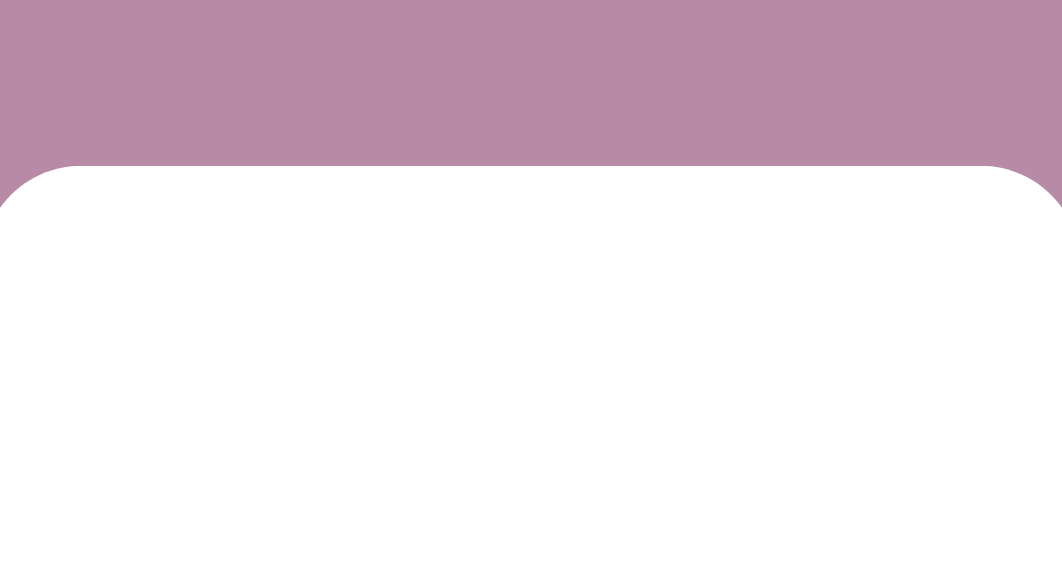
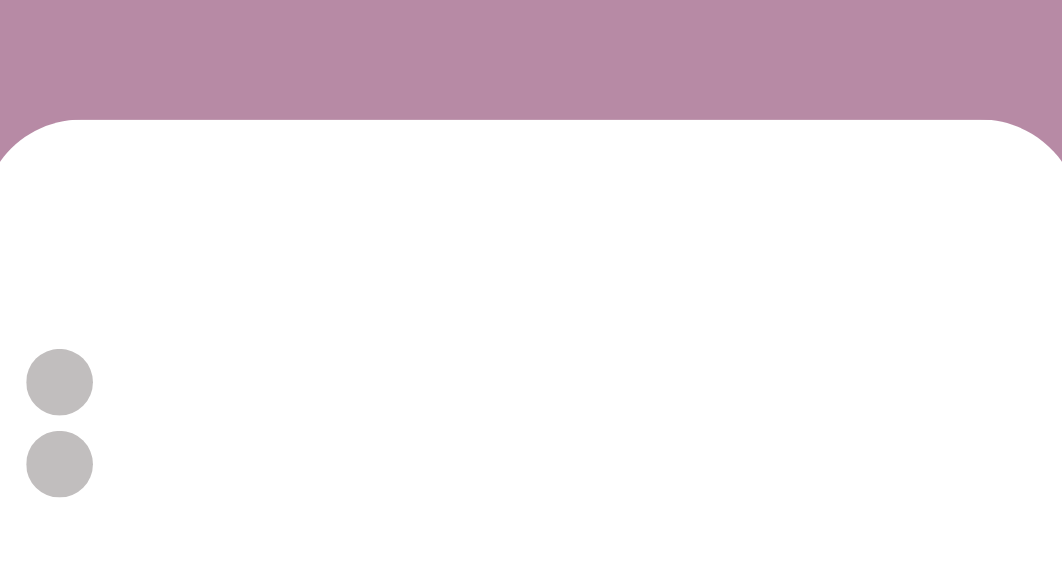
Edit admin form dan background form lainnya

Changed region(s): [[0.0, 0.2073, 1.0, 0.3554], [0.0, 0.5923, 0.0932, 0.8885]]

diff --git a/src/CekKalori.java b/src/CekKalori.java
@@ -55,73 +55,74 @@ public class CekKalori extends javax.swing.JFrame {
 
         jLabel2.setBackground(new java.awt.Color(0, 0, 0));
         jLabel2.setFont(new java.awt.Font("SansSerif", 1, 48)); // NOI18N
+        jLabel2.setForeground(new java.awt.Color(255, 255, 255));
         jLabel2.setText("Cek Kebutuhan Kalori");
-        getContentPane().add(jLabel2, new org.netbeans.lib.awtextra.AbsoluteConstraints(270, 50, -1, -1));
+        getContentPane().add(jLabel2, new org.netbeans.lib.awtextra.AbsoluteConstraints(270, 30, -1, -1));
 
         lblUsia.setBackground(new java.awt.Color(0, 0, 0));
         lblUsia.setFont(new java.awt.Font("SansSerif", 1, 24)); // NOI18N
         lblUsia.setText("Usia");
-        getContentPane().add(lblUsia, new org.netbeans.lib.awtextra.AbsoluteConstraints(240, 180, -1, -1));
+        getContentPane().add(lblUsia, new org.netbeans.lib.awtextra.AbsoluteConstraints(240, 140, -1, -1));
 
         txtUsia.setBackground(new java.awt.Color(255, 204, 255));
         txtUsia.setFont(new java.awt.Font("SansSerif", 1, 20)); // NOI18N
-        getContentPane().add(txtUsia, new org.netbeans.lib.awtextra.AbsoluteConstraints(170, 220, 190, 60));
+        getContentPane().add(txtUsia, new org.netbeans.lib.awtextra.AbsoluteConstraints(170, 180, 190, 60));
 
         lblKelamin.setBackground(new java.awt.Color(0, 0, 0));
         lblKelamin.setFont(new java.awt.Font("SansSerif", 1, 24)); // NOI18N
         lblKelamin.setText("Jenis Kelamin");
-        getContentPane().add(lblKelamin, new org.netbeans.lib.awtextra.AbsoluteConstraints(480, 180, -1, -1));
+        getContentPane().add(lblKelamin, new org.netbeans.lib.awtextra.AbsoluteConstraints(470, 140, -1, -1));
 
         lblTinggi.setBackground(new java.awt.Color(0, 0, 0));
         lblTinggi.setFont(new java.awt.Font("SansSerif", 1, 22)); // NOI18N
         lblTinggi.setText("Tinggi Badan (Cm)");
-        getContentPane().add(lblTinggi, new org.netbeans.lib.awtextra.AbsoluteConstraints(160, 310, -1, -1));
+        getContentPane().add(lblTinggi, new org.netbeans.lib.awtextra.AbsoluteConstraints(160, 270, -1, -1));
 
         lblBerat.setFont(new java.awt.Font("SansSerif", 1, 22)); // NOI18N
         lblBerat.setText("Berat Badan (Kg)");
-        getContentPane().add(lblBerat, new org.netbeans.lib.awtextra.AbsoluteConstraints(470, 310, -1, -1));
+        getContentPane().add(lblBerat, new org.netbeans.lib.awtextra.AbsoluteConstraints(460, 270, -1, -1));
 
         comKelamin.setBackground(new java.awt.Color(255, 204, 255));
         comKelamin.setFont(new java.awt.Font("SansSerif", 1, 20)); // NOI18N
         comKelamin.setModel(new javax.swing.DefaultComboBoxModel<>(new String[] { "Wanita", "Laki-laki" }));
-        getContentPane().add(comKelamin, new org.netbeans.lib.awtextra.AbsoluteConstraints(470, 220, 180, 60));
+        getContentPane().add(comKelamin, new org.netbeans.lib.awtextra.AbsoluteConstraints(460, 180, 180, 60));
 
         lblAktivitas.setBackground(new java.awt.Color(0, 0, 0));
         lblAktivitas.setFont(new java.awt.Font("SansSerif", 1, 22)); // NOI18N
         lblAktivitas.setText("Aktivitas");
-        getContentPane().add(lblAktivitas, new org.netbeans.lib.awtextra.AbsoluteConstraints(780, 180, -1, -1));
+        getContentPane().add(lblAktivitas, new org.netbeans.lib.awtextra.AbsoluteConstraints(760, 140, -1, -1));
 
         comAktivitas.setBackground(new java.awt.Color(255, 204, 255));
         comAktivitas.setFont(new java.awt.Font("SansSerif", 1, 22)); // NOI18N
         comAktivitas.setModel(new javax.swing.DefaultComboBoxModel<>(new String[] { "Ringan", "Sedang", "Berat", " " }));
-        getContentPane().add(comAktivitas, new org.netbeans.lib.awtextra.AbsoluteConstraints(750, 220, 160, 60));
+        getContentPane().add(comAktivitas, new org.netbeans.lib.awtextra.AbsoluteConstraints(730, 180, 160, 60));
 
         btnReset.setBackground(new java.awt.Color(255, 0, 0));
         btnReset.setFont(new java.awt.Font("SansSerif", 1, 18)); // NOI18N
         btnReset.setText("Reset");
         btnReset.addActionListener(this::btnResetActionPerformed);
-        getContentPane().add(btnReset, new org.netbeans.lib.awtextra.AbsoluteConstraints(750, 380, 180, 40));
+        getContentPane().add(btnReset, new org.netbeans.lib.awtextra.AbsoluteConstraints(720, 330, 180, 40));
 
         btnCek.setBackground(new java.awt.Color(102, 255, 102));
         btnCek.setFont(new java.awt.Font("SansSerif", 1, 18)); // NOI18N
         btnCek.setText("Cek Sekarang");
         btnCek.addActionListener(this::btnCekActionPerformed);
-        getContentPane().add(btnCek, new org.netbeans.lib.awtextra.AbsoluteConstraints(750, 320, 180, 40));
+        getContentPane().add(btnCek, new org.netbeans.lib.awtextra.AbsoluteConstraints(720, 270, 180, 40));
 
         txtTinggi.setBackground(new java.awt.Color(255, 204, 255));
         txtTinggi.setFont(new java.awt.Font("SansSerif", 1, 20)); // NOI18N
         txtTinggi.addActionListener(this::txtTinggiActionPerformed);
-        getContentPane().add(txtTinggi, new org.netbeans.lib.awtextra.AbsoluteConstraints(170, 350, 190, 60));
+        getContentPane().add(txtTinggi, new org.netbeans.lib.awtextra.AbsoluteConstraints(170, 310, 190, 60));
 
         txtBerat.setBackground(new java.awt.Color(255, 204, 255));
         txtBerat.setFont(new java.awt.Font("SansSerif", 1, 20)); // NOI18N
-        getContentPane().add(txtBerat, new org.netbeans.lib.awtextra.AbsoluteConstraints(470, 350, 180, 60));
+        getContentPane().add(txtBerat, new org.netbeans.lib.awtextra.AbsoluteConstraints(460, 310, 180, 60));
 
         lblHasil.setBackground(new java.awt.Color(204, 255, 204));
         lblHasil.setOpaque(true);
-        getContentPane().add(lblHasil, new org.netbeans.lib.awtextra.AbsoluteConstraints(240, 440, 580, 90));
+        getContentPane().add(lblHasil, new org.netbeans.lib.awtextra.AbsoluteConstraints(170, 400, 730, 120));
 
-        jLabel1.setIcon(new javax.swing.ImageIcon(getClass().getResource("/background/bgKalori(1).png"))); // NOI18N
+        jLabel1.setIcon(new javax.swing.ImageIcon(getClass().getResource("/background/bgKalori.png"))); // NOI18N
         getContentPane().add(jLabel1, new org.netbeans.lib.awtextra.AbsoluteConstraints(-10, 0, 1060, 570));
 
         pack();

diff --git a/src/CekAir.java b/src/CekAir.java
@@ -49,49 +49,49 @@ public class CekAir extends javax.swing.JFrame {
 
         lblBerat.setFont(new java.awt.Font("SansSerif", 1, 24)); // NOI18N
         lblBerat.setText("Berat Badan (Kg)");
-        getContentPane().add(lblBerat, new org.netbeans.lib.awtextra.AbsoluteConstraints(160, 220, 200, 30));
+        getContentPane().add(lblBerat, new org.netbeans.lib.awtextra.AbsoluteConstraints(170, 190, 200, 30));
 
         txtBerat.setBackground(new java.awt.Color(204, 255, 255));
         txtBerat.setFont(new java.awt.Font("SansSerif", 1, 18)); // NOI18N
-        getContentPane().add(txtBerat, new org.netbeans.lib.awtextra.AbsoluteConstraints(160, 260, 220, 60));
+        getContentPane().add(txtBerat, new org.netbeans.lib.awtextra.AbsoluteConstraints(160, 230, 220, 60));
 
         lblAktivitas.setFont(new java.awt.Font("SansSerif", 1, 24)); // NOI18N
         lblAktivitas.setText("Aktivitas");
-        getContentPane().add(lblAktivitas, new org.netbeans.lib.awtextra.AbsoluteConstraints(500, 220, 100, -1));
+        getContentPane().add(lblAktivitas, new org.netbeans.lib.awtextra.AbsoluteConstraints(530, 190, 100, -1));
 
         comAktivitas.setBackground(new java.awt.Color(255, 255, 204));
         comAktivitas.setFont(new java.awt.Font("SansSerif", 0, 24)); // NOI18N
         comAktivitas.setModel(new javax.swing.DefaultComboBoxModel<>(new String[] { "Ringan", "Sedang", "Berat" }));
-        getContentPane().add(comAktivitas, new org.netbeans.lib.awtextra.AbsoluteConstraints(490, 260, 250, 60));
+        getContentPane().add(comAktivitas, new org.netbeans.lib.awtextra.AbsoluteConstraints(460, 230, 250, 60));
 
         btnReset.setBackground(new java.awt.Color(204, 0, 51));
         btnReset.setFont(new java.awt.Font("SansSerif", 1, 16)); // NOI18N
         btnReset.setForeground(new java.awt.Color(255, 255, 255));
         btnReset.setText("Reset");
         btnReset.addActionListener(this::btnResetActionPerformed);
-        getContentPane().add(btnReset, new org.netbeans.lib.awtextra.AbsoluteConstraints(810, 230, 150, 40));
+        getContentPane().add(btnReset, new org.netbeans.lib.awtextra.AbsoluteConstraints(780, 190, 150, 40));
 
         btnCek.setBackground(new java.awt.Color(0, 204, 51));
         btnCek.setFont(new java.awt.Font("SansSerif", 1, 16)); // NOI18N
         btnCek.setForeground(new java.awt.Color(255, 255, 255));
         btnCek.setText("Cek Sekarang");
         btnCek.addActionListener(this::btnCekActionPerformed);
-        getContentPane().add(btnCek, new org.netbeans.lib.awtextra.AbsoluteConstraints(810, 290, 150, 40));
+        getContentPane().add(btnCek, new org.netbeans.lib.awtextra.AbsoluteConstraints(780, 250, 150, 40));
 
         jLabel4.setFont(new java.awt.Font("SansSerif", 1, 48)); // NOI18N
         jLabel4.setForeground(new java.awt.Color(255, 255, 255));
         jLabel4.setText("Cek Kebutuhan Air");
-        getContentPane().add(jLabel4, new org.netbeans.lib.awtextra.AbsoluteConstraints(320, 50, 470, 80));
+        getContentPane().add(jLabel4, new org.netbeans.lib.awtextra.AbsoluteConstraints(320, 20, 470, 80));
 
         lblHasil.setBackground(new java.awt.Color(204, 255, 204));
         lblHasil.setFont(new java.awt.Font("SansSerif", 0, 24)); // NOI18N
         lblHasil.setForeground(new java.awt.Color(255, 255, 255));
         lblHasil.setOpaque(true);
-        getContentPane().add(lblHasil, new org.netbeans.lib.awtextra.AbsoluteConstraints(260, 390, 520, 100));
+        getContentPane().add(lblHasil, new org.netbeans.lib.awtextra.AbsoluteConstraints(160, 330, 770, 160));
 
-        jLabel1.setIcon(new javax.swing.ImageIcon(getClass().getResource("/background/bgAir(1).png"))); // NOI18N
+        jLabel1.setIcon(new javax.swing.ImageIcon(getClass().getResource("/background/bgAir.png"))); // NOI18N
         jLabel1.setText("\n");
-        getContentPane().add(jLabel1, new org.netbeans.lib.awtextra.AbsoluteConstraints(0, 0, 1060, 570));
+        getContentPane().add(jLabel1, new org.netbeans.lib.awtextra.AbsoluteConstraints(0, 0, 1060, -1));
 
         pack();
     }// </editor-fold>//GEN-END:initComponents

diff --git a/src/CekBeratBadan.java b/src/CekBeratBadan.java
@@ -50,49 +50,50 @@ public class CekBeratBadan extends javax.swing.JFrame {
         getContentPane().setLayout(new org.netbeans.lib.awtextra.AbsoluteLayout());
 
         jLabel2.setFont(new java.awt.Font("SansSerif", 1, 48)); // NOI18N
+        jLabel2.setForeground(new java.awt.Color(255, 255, 255));
         jLabel2.setText("Cek Berat Badan Ideal");
-        getContentPane().add(jLabel2, new org.netbeans.lib.awtextra.AbsoluteConstraints(290, 70, -1, -1));
+        getContentPane().add(jLabel2, new org.netbeans.lib.awtextra.AbsoluteConstraints(290, 30, -1, -1));
 
         lblBerat.setBackground(new java.awt.Color(0, 0, 0));
         lblBerat.setFont(new java.awt.Font("SansSerif", 1, 24)); // NOI18N
         lblBerat.setText("Berat Badan (Kg)");
-        getContentPane().add(lblBerat, new org.netbeans.lib.awtextra.AbsoluteConstraints(180, 250, -1, -1));
+        getContentPane().add(lblBerat, new org.netbeans.lib.awtextra.AbsoluteConstraints(180, 170, -1, -1));
 
         txtBerat.setBackground(new java.awt.Color(204, 255, 255));
         txtBerat.setFont(new java.awt.Font("SansSerif", 0, 18)); // NOI18N
         txtBerat.addActionListener(this::txtBeratActionPerformed);
-        getContentPane().add(txtBerat, new org.netbeans.lib.awtextra.AbsoluteConstraints(180, 290, 190, 60));
+        getContentPane().add(txtBerat, new org.netbeans.lib.awtextra.AbsoluteConstraints(180, 210, 190, 60));
 
         lblTinggi.setFont(new java.awt.Font("SansSerif", 1, 24)); // NOI18N
         lblTinggi.setText("Tinggi Badan (Cm)");
-        getContentPane().add(lblTinggi, new org.netbeans.lib.awtextra.AbsoluteConstraints(450, 250, -1, -1));
+        getContentPane().add(lblTinggi, new org.netbeans.lib.awtextra.AbsoluteConstraints(450, 170, -1, -1));
 
         txtTinggi.setBackground(new java.awt.Color(255, 255, 204));
         txtTinggi.setFont(new java.awt.Font("SansSerif", 0, 18)); // NOI18N
         txtTinggi.addActionListener(this::txtTinggiActionPerformed);
-        getContentPane().add(txtTinggi, new org.netbeans.lib.awtextra.AbsoluteConstraints(450, 290, 210, 60));
+        getContentPane().add(txtTinggi, new org.netbeans.lib.awtextra.AbsoluteConstraints(450, 210, 210, 60));
 
         btnReset.setBackground(new java.awt.Color(204, 0, 51));
         btnReset.setFont(new java.awt.Font("SansSerif", 1, 16)); // NOI18N
         btnReset.setForeground(new java.awt.Color(255, 255, 255));
         btnReset.setText("Reset");
         btnReset.addActionListener(this::btnResetActionPerformed);
-        getContentPane().add(btnReset, new org.netbeans.lib.awtextra.AbsoluteConstraints(740, 250, 150, 40));
+        getContentPane().add(btnReset, new org.netbeans.lib.awtextra.AbsoluteConstraints(740, 180, 150, 40));
 
         btnCek.setBackground(new java.awt.Color(102, 255, 102));
         btnCek.setFont(new java.awt.Font("SansSerif", 1, 16)); // NOI18N
         btnCek.setForeground(new java.awt.Color(255, 255, 255));
         btnCek.setText("Cek Sekarang");
         btnCek.addActionListener(this::btnCekActionPerformed);
-        getContentPane().add(btnCek, new org.netbeans.lib.awtextra.AbsoluteConstraints(740, 310, 150, 40));
+        getContentPane().add(btnCek, new org.netbeans.lib.awtextra.AbsoluteConstraints(740, 230, 150, 40));
 
         lblHasil.setBackground(new java.awt.Color(204, 255, 204));
         lblHasil.setFont(new java.awt.Font("SansSerif", 0, 24)); // NOI18N
         lblHasil.setForeground(new java.awt.Color(255, 255, 255));
         lblHasil.setOpaque(true);
-        getContentPane().add(lblHasil, new org.netbeans.lib.awtextra.AbsoluteConstraints(220, 390, 650, 150));
+        getContentPane().add(lblHasil, new org.netbeans.lib.awtextra.AbsoluteConstraints(180, 310, 710, 190));
 
-        jLabel1.setIcon(new javax.swing.ImageIcon(getClass().getResource("/background/bgCekBerat(1).png"))); // NOI18N
+        jLabel1.setIcon(new javax.swing.ImageIcon(getClass().getResource("/background/bgCekBerat(2).png"))); // NOI18N
         getContentPane().add(jLabel1, new org.netbeans.lib.awtextra.AbsoluteConstraints(0, 0, 1070, 570));
 
         pack();

diff --git a/src/AdminForm.java b/src/AdminForm.java
@@ -27,18 +27,13 @@ public class AdminForm extends javax.swing.JFrame {
     // <editor-fold defaultstate="collapsed" desc="Generated Code">//GEN-BEGIN:initComponents
     private void initComponents() {
 
-        setDefaultCloseOperation(javax.swing.WindowConstants.EXIT_ON_CLOSE);
+        jLabel1 = new javax.swing.JLabel();
 
-        javax.swing.GroupLayout layout = new javax.swing.GroupLayout(getContentPane());
-        getContentPane().setLayout(layout);
-        layout.setHorizontalGroup(
-            layout.createParallelGroup(javax.swing.GroupLayout.Alignment.LEADING)
-            .addGap(0, 400, Short.MAX_VALUE)
-        );
-        layout.setVerticalGroup(
-            layout.createParallelGroup(javax.swing.GroupLayout.Alignment.LEADING)
-            .addGap(0, 300, Short.MAX_VALUE)
-        );
+        setDefaultCloseOperation(javax.swing.WindowConstants.EXIT_ON_CLOSE);
+        getContentPane().setLayout(new org.netbeans.lib.awtextra.AbsoluteLayout());
+
+        jLabel1.setIcon(new javax.swing.ImageIcon(getClass().getResource("/background/bgAdmin.png"))); // NOI18N
+        getContentPane().add(jLabel1, new org.netbeans.lib.awtextra.AbsoluteConstraints(0, 0, 1060, 570));
 
         pack();
     }// </editor-fold>//GEN-END:initComponents
@@ -69,5 +64,6 @@ public class AdminForm extends javax.swing.JFrame {
     }
 
     // Variables declaration - do not modify//GEN-BEGIN:variables
+    private javax.swing.JLabel jLabel1;
     // End of variables declaration//GEN-END:variables
 }
